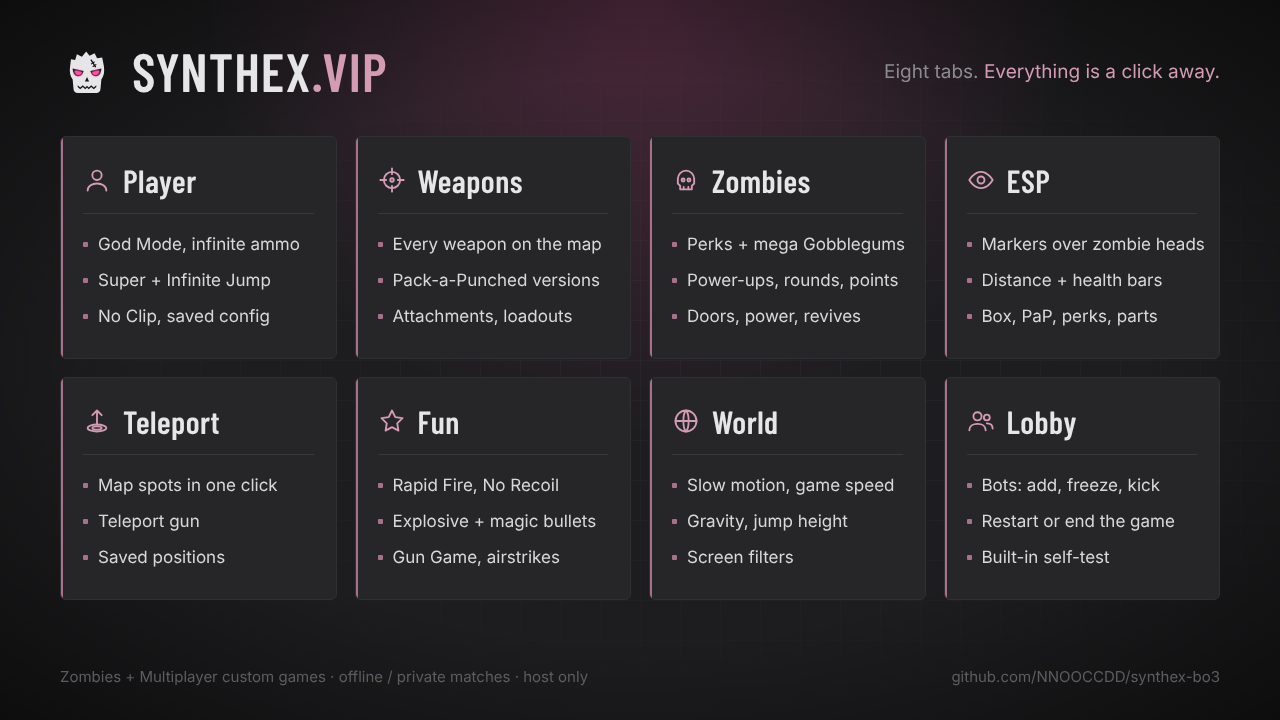
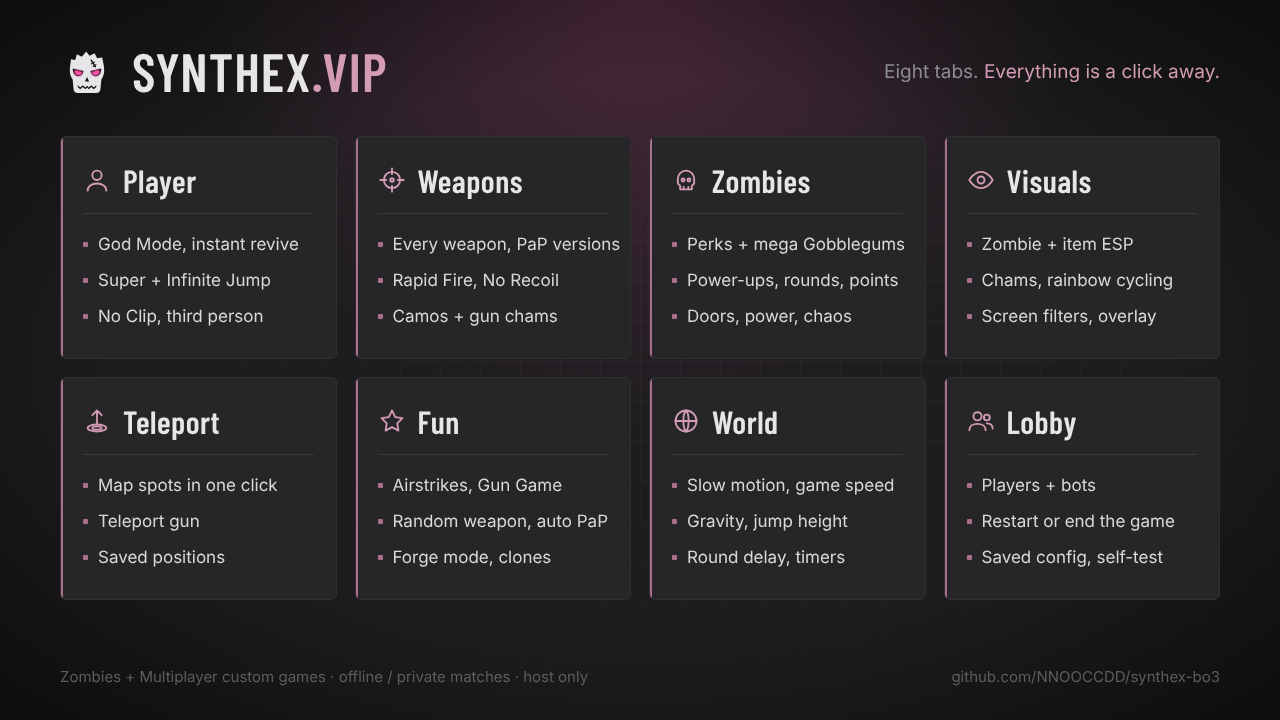
Reorganise the menu: Survival/Movement/Camera, Weapons Loadout/Mods/Camo, Zombies Chaos, Visuals tab, Lobby Menu
Layout lives in synthex_spec.lua only; moved buttons keep their script page via home = "tab/side".
tools/check_layout.py checks every menu button/option against the scripts (run by build.sh when lupa is available).
Fixes Player weapon Take/Drop triggering the points buttons (renamed Drop Weapon / Take Weapon).

diff --git a/graphics/src/Features.tsx b/graphics/src/Features.tsx
@@ -16,14 +16,14 @@ const ICONS: Record<string, React.ReactNode> = {
 };
 
 const TABS: { key: string; title: string; lines: string[] }[] = [
-	{ key: "player", title: "Player", lines: ["God Mode, infinite ammo", "Super + Infinite Jump", "No Clip, saved config"] },
-	{ key: "weapons", title: "Weapons", lines: ["Every weapon on the map", "Pack-a-Punched versions", "Attachments, loadouts"] },
-	{ key: "zombies", title: "Zombies", lines: ["Perks + mega Gobblegums", "Power-ups, rounds, points", "Doors, power, revives"] },
-	{ key: "esp", title: "ESP", lines: ["Markers over zombie heads", "Distance + health bars", "Box, PaP, perks, parts"] },
+	{ key: "player", title: "Player", lines: ["God Mode, instant revive", "Super + Infinite Jump", "No Clip, third person"] },
+	{ key: "weapons", title: "Weapons", lines: ["Every weapon, PaP versions", "Rapid Fire, No Recoil", "Camos + gun chams"] },
+	{ key: "zombies", title: "Zombies", lines: ["Perks + mega Gobblegums", "Power-ups, rounds, points", "Doors, power, chaos"] },
+	{ key: "esp", title: "Visuals", lines: ["Zombie + item ESP", "Chams, rainbow cycling", "Screen filters, overlay"] },
 	{ key: "teleport", title: "Teleport", lines: ["Map spots in one click", "Teleport gun", "Saved positions"] },
-	{ key: "fun", title: "Fun", lines: ["Rapid Fire, No Recoil", "Explosive + magic bullets", "Gun Game, airstrikes"] },
-	{ key: "world", title: "World", lines: ["Slow motion, game speed", "Gravity, jump height", "Screen filters"] },
-	{ key: "lobby", title: "Lobby", lines: ["Bots: add, freeze, kick", "Restart or end the game", "Built-in self-test"] },
+	{ key: "fun", title: "Fun", lines: ["Airstrikes, Gun Game", "Random weapon, auto PaP", "Forge mode, clones"] },
+	{ key: "world", title: "World", lines: ["Slow motion, game speed", "Gravity, jump height", "Round delay, timers"] },
+	{ key: "lobby", title: "Lobby", lines: ["Players + bots", "Restart or end the game", "Saved config, self-test"] },
 ];
 
 const Card: React.FC<{ tab: (typeof TABS)[number] }> = ({ tab }) => (

diff --git a/tools/check_layout.py b/tools/check_layout.py
@@ -1,0 +1,113 @@
+"""Check that every button in the Lua layout (ui/synthex/synthex_spec.lua) reaches a script button.
+Buttons send "b|tab|side|label"; the script looks the label up on that page (offmenu_core find_button).
+Needs Python with lupa (pip install lupa) to run the Lua spec. Exit code 1 on any unmatched button."""
+import glob, os, re, sys
+from lupa import LuaRuntime
+
+ROOT = os.path.join(os.path.dirname(__file__), "..", "mod", "synthex")
+
+def lua_buttons():
+    lua = LuaRuntime(unpack_returned_tuples=True)
+    lua.execute("CoD = {} ; function require() end")
+    lua.execute(open(os.path.join(ROOT, "ui", "synthex", "synthex_spec.lua")).read())
+    everything = lua.eval("setmetatable( {}, { __index = function () return true end } )")
+    out = {}
+    global keys
+    keys = {}
+    for zm in (True, False):
+        rows = []
+        tabs = lua.eval("CoD.SynthexSpec.Build")(zm)
+        for ti in range(1, len(tabs) + 1):
+            t = tabs[ti]
+            for si in range(1, len(t.sides) + 1):
+                s = t.sides[si]
+                cards = s.cards
+                if cards is None and s.build is not None:
+                    cards = s.build(lua.table(available=everything, players=lua.table(), machines=everything, pap=True, box=True, power=True))
+                for ci in range(1, len(cards) + 1):
+                    for ri in range(1, len(cards[ci].rows) + 1):
+                        r = cards[ci].rows[ri]
+                        if r.key and not r.lua and r.k in ("toggle", "slider", "choice"):
+                            keys.setdefault("zm" if zm else "mp", set()).add(r.key)
+                        if r.k != "button" or r.lua or (s.dynamic == "powerups" and r.id):
+                            continue
+                        home = r.home or s.home or (t.id + "/" + s.id)
+                        rows.append((t.label + " > " + s.label, home.split("/")[1], r.label))
+        out["zm" if zm else "mp"] = rows
+    return out
+
+def gsc_buttons(files):
+    """side id -> set of button labels. Follows offmenu::side() calls, fill functions and builder helpers.
+    A side or label that is a variable in the script counts as "*" (matches anything)."""
+    by_side = {}
+    # functions the script calls through a level hook while filling a page
+    fill_side = {"player_extra": "players"}
+    last_side = {}          # builder function -> last side it opens (so code after the call continues there)
+    srcs = [open(f, errors="replace").read() for f in files]
+    side_re = re.compile(r'offmenu::side\(\s*[^,]+,\s*("([^"]+)"|[\w\[\]\s]+)\s*(?:,\s*[^,)]+)?(?:,\s*&(\w+))?')
+    for src in srcs:
+        func = None
+        for line in src.splitlines():
+            fm = re.match(r"\s*function\s+(?:private\s+)?(\w+)", line)
+            if fm:
+                func = fm.group(1)
+            m = side_re.search(line)
+            if m:
+                sid = m.group(2) or "*"
+                if m.group(3):
+                    fill_side[m.group(3)] = sid
+                if func:
+                    last_side[func] = sid
+    for src in srcs:
+        side = None
+        for line in src.splitlines():
+            fm = re.match(r"\s*function\s+(?:private\s+)?(\w+)", line)
+            if fm:
+                side = fill_side.get(fm.group(1))
+            cm = re.search(r"(?:::|\s)(\w+)\(", line)
+            for call in re.findall(r"(?:::)(\w+)\(", line):
+                if call in last_side:
+                    side = last_side[call]
+            m = side_re.search(line)
+            if m:
+                side = m.group(2) or "*"
+            bm = re.search(r'offmenu::button\(\s*("([^"]+)"|\w+)', line)
+            if bm and side:
+                by_side.setdefault(side, set()).add(bm.group(2) or "*")
+    return by_side
+
+def has(gsc, side, label):
+    # exact page: the label, or a variable label registered on that page
+    labels = gsc.get(side, set())
+    if label in labels or "*" in labels:
+        return True
+    # pages whose id is a variable in the script (weapon categories, positions): literal labels only
+    return label in gsc.get("*", set())
+
+common = glob.glob(os.path.join(ROOT, "scripts", "shared", "offmenu", "*.gsc"))
+modes = {"zm": common + glob.glob(os.path.join(ROOT, "scripts", "zm", "*.gsc")),
+         "mp": common + glob.glob(os.path.join(ROOT, "scripts", "mp", "*.gsc"))}
+bad = 0
+lua = lua_buttons()
+for mode, files in modes.items():
+    gsc = gsc_buttons(files)
+    for where, side, label in lua[mode]:
+        if not has(gsc, side, label):
+            print("%s: '%s' on %s -> no script button on page '%s'" % (mode, label, where, side))
+            bad += 1
+# toggles / sliders: the layout's keys must exist in the script, and no script option may vanish from the menu
+for mode, files in modes.items():
+    src = "\n".join(open(f, errors="replace").read() for f in files)
+    gsc_keys = set(re.findall(r'offmenu::(?:toggle|slider|choice)\(\s*[^,]+,\s*"([^"]+)"(?!\s*\+)', src))
+    # keys built as "prefix" + name in the script
+    prefixes = tuple(set(re.findall(r'"((?:ov_s|att|perk)_)"\s*\+', src)) | {"perk_", "att_"})
+    lua_keys = keys.get(mode, set())
+    for k in sorted(lua_keys - gsc_keys):
+        if not k.startswith(prefixes):
+            print("%s: menu option '%s' has no script toggle/slider" % (mode, k))
+            bad += 1
+    for k in sorted(gsc_keys - lua_keys):
+        print("%s: script option '%s' is not in the menu anywhere" % (mode, k))
+        bad += 1
+print("layout check:", "OK" if not bad else "%d problem(s)" % bad)
+sys.exit(1 if bad else 0)

diff --git a/README.md b/README.md
@@ -33,42 +33,38 @@ To play without the mod again, remove `+set fs_game synthex` from the launch opt
 | **Mouse** | click tabs, side tabs, toggles, buttons and the `‹ ›` arrows on sliders |
 | **Keys** | Q / E tabs · A / D side tabs · W / S move · F select · Z / X or mouse wheel change a value |
 
-Settings save to disk under **Player → Config** (`players/mods/synthex/synthex_config.txt`), with
+Settings save to disk under **Lobby → Menu** (`players/mods/synthex/synthex_config.txt`), with
 **Auto-Load On Start** so your setup comes back every game. Zombies and Multiplayer are saved separately.
 
 ## Features
 ![The eight menu tabs](docs/features.png)
 
-**Player** — God Mode, Demi-God, infinite ammo / equipment / hero weapon, max health and regen, points or score,
-weapon tools (Pack-a-Punch, alt ammo, drop/take). **Movement**: speed, Super Jump, Infinite Jump, double jump
-anywhere, No Clip fly. **Camera**: third person, FOV, hide HUD, photo mode. **Overlay**: a small stats box in any corner — pick the
-stats, size and opacity. **Position**: save/load positions, quick teleports. **Config**: save/load settings.
+**Player** — **Survival**: God Mode, Demi-God, Zombies Ignore Me / Always UAV, Invisible, max health and regen,
+instant revive and infinite downs, quick actions. **Movement**: speed, Super Jump, Infinite Jump, double jump
+anywhere, No Clip fly. **Camera**: third person, FOV, hide HUD, photo mode. (MP: **Score**.)
 
-**Weapons** — every weapon on the map by category, Pack-a-Punched versions, attachments (MP), current loadout.
-**Camo**: one camo on every gun you hold (103 of the game's camos — Dark Matter, Diamond, Gold, every Pack-a-Punch
-camo, animated Black Market ones, …) plus a separate knife camo.
+**Weapons** — every weapon on the map by category, Pack-a-Punched versions. **Loadout**: Pack-a-Punch / un-pack,
+alt ammo, drop or take, infinite ammo. **Mods**: Rapid Fire (5–40 shots/s, snipers too), No Recoil, fast reload,
+explosive and magic bullets, Headshots Only, Every Shot Hits Head, aim assist on zombies. **Camo**: one camo on every
+gun (103 of the game's camos), knife camo, and gun chams. (MP: **Attachments**.)
 
-**Zombies** (Zombies mode) — points, all perks, classic and mega Gobblegums, power-ups, rounds (skip, jump to,
-freeze), map tools (open all doors, power on, Mystery Box / Pack-a-Punch), zombie spawning and speed, revive tools
-(instant revive, infinite downs).
+**Zombies** — points, perks, classic and mega Gobblegums, power-ups, rounds (skip, jump to, freeze, zombie speed),
+map (power, doors, box, Pack-a-Punch), **Chaos**: exploding zombies, zombie launcher, Force Push.
 
-**ESP** (Zombies mode, AI zombies and map items only) — markers above zombie heads with distance and a health
-bar; styles, sizes, colours per enemy type, through walls, edge arrows, max distance; Mystery Box, Pack-a-Punch,
-perks, wall weapons, buildable parts and power-ups. **Chams**: zombies drawn solid, through walls, with a rim glow or
-animated glitch / hex shimmer / flow / hacked shaders, in 7 colours or a cycling rainbow with adjustable speed.
+**Visuals** — **Zombie ESP** (markers above heads with distance and health bars, style, colours, through walls,
+edge arrows), **Item ESP** (box, Pack-a-Punch, perks, wall weapons, parts, power-ups), **Zombie Chams** (solid,
+through walls, rim glow, glitch, hex shimmer, flow, hacked, thermal — 7 colours or a rainbow with adjustable speed),
+**Screen Filters**, and the **Overlay** stats box.
 
-**Fun** — explosive bullets, magic bullets, **Rapid Fire** (5–40 shots/s, any gun, snipers too), No Recoil,
-fast reload, Headshots Only and Every Shot Hits Head (Zombies), Forge mode, airstrike at the crosshair,
-Force Push, Gun Game (MP: for you and the bots), random weapon each round, auto Pack-a-Punch, exploding zombies,
-zombie launcher, aim assist on zombies, clones (MP).
+**Teleport** — saved positions, map spots (Pack-a-Punch, box, perk machines, power), teleport gun, bring players.
 
-**World** — slow motion and game speed, gravity, jump height, movement speed for everyone, screen filters
-(frost, glitch, underwater, rain, EMP, …).
+**Fun** — airstrike at the crosshair, Gun Game (MP: for you and the bots), random weapon each round, auto
+Pack-a-Punch, Forge mode, clones (MP).
 
-**Teleport** — map spots (Pack-a-Punch, box, perk machines, power), teleport gun, saved positions.
+**World** — slow motion and game speed, gravity, jump height, movement speed for everyone, round delay / match timer.
 
-**Lobby** — players, match control, restart / end game (MP: add bots, freeze, bring or kick them), and a
-built-in self-test that runs every option once.
+**Lobby** — players, session control (restart, end), MP bots, and **Menu**: save / load your config with
+auto-load, welcome hint, built-in self-test.
 
 <img src="docs/overlay.jpg" width="300" alt="Stats overlay">
 
